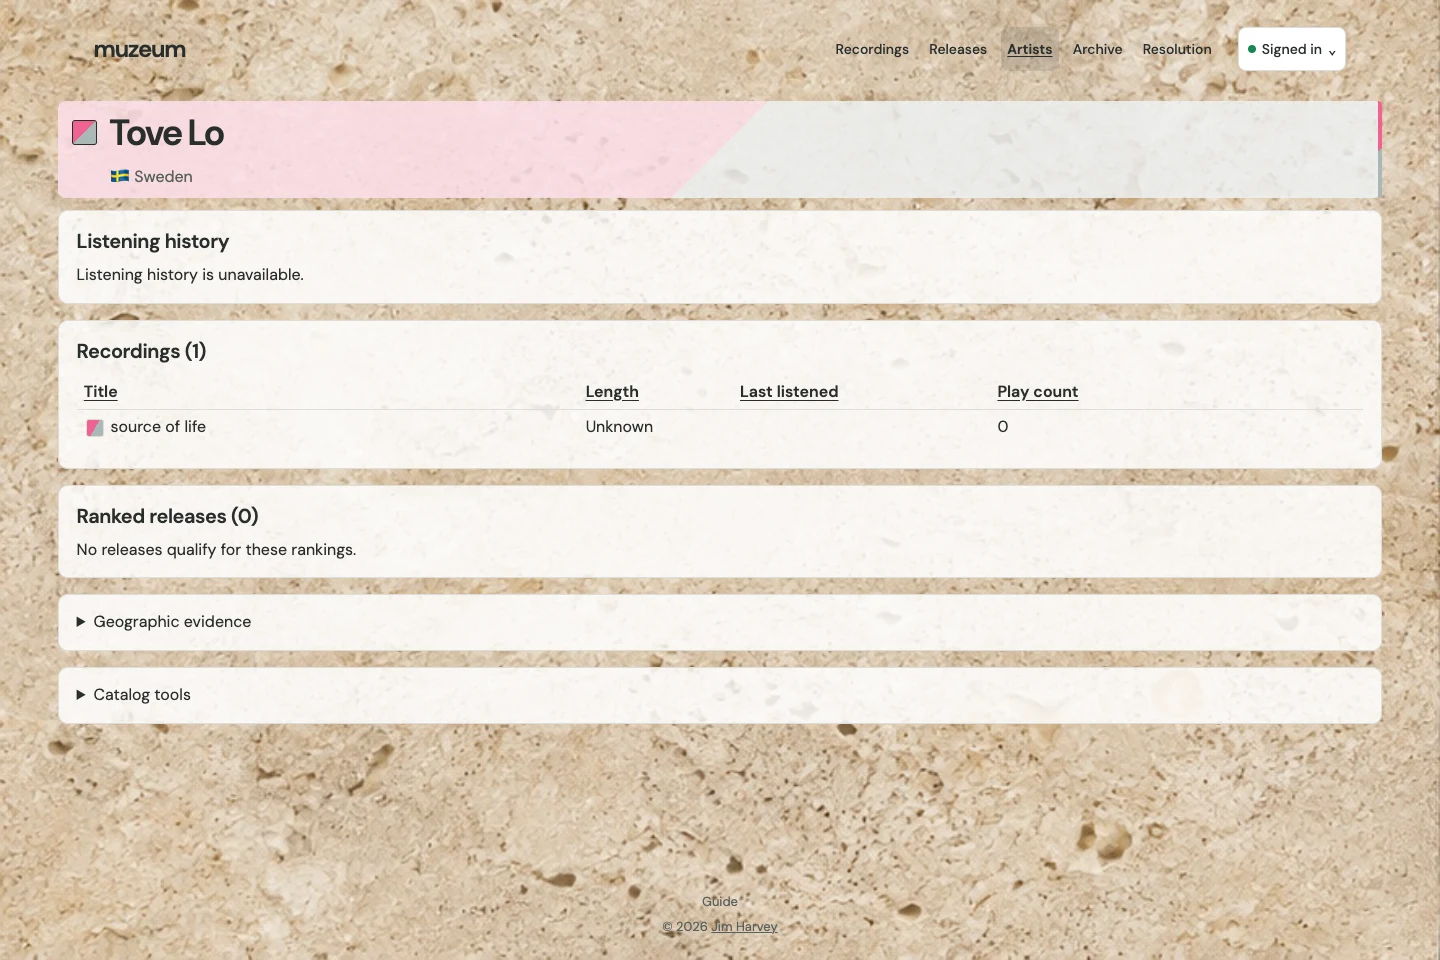
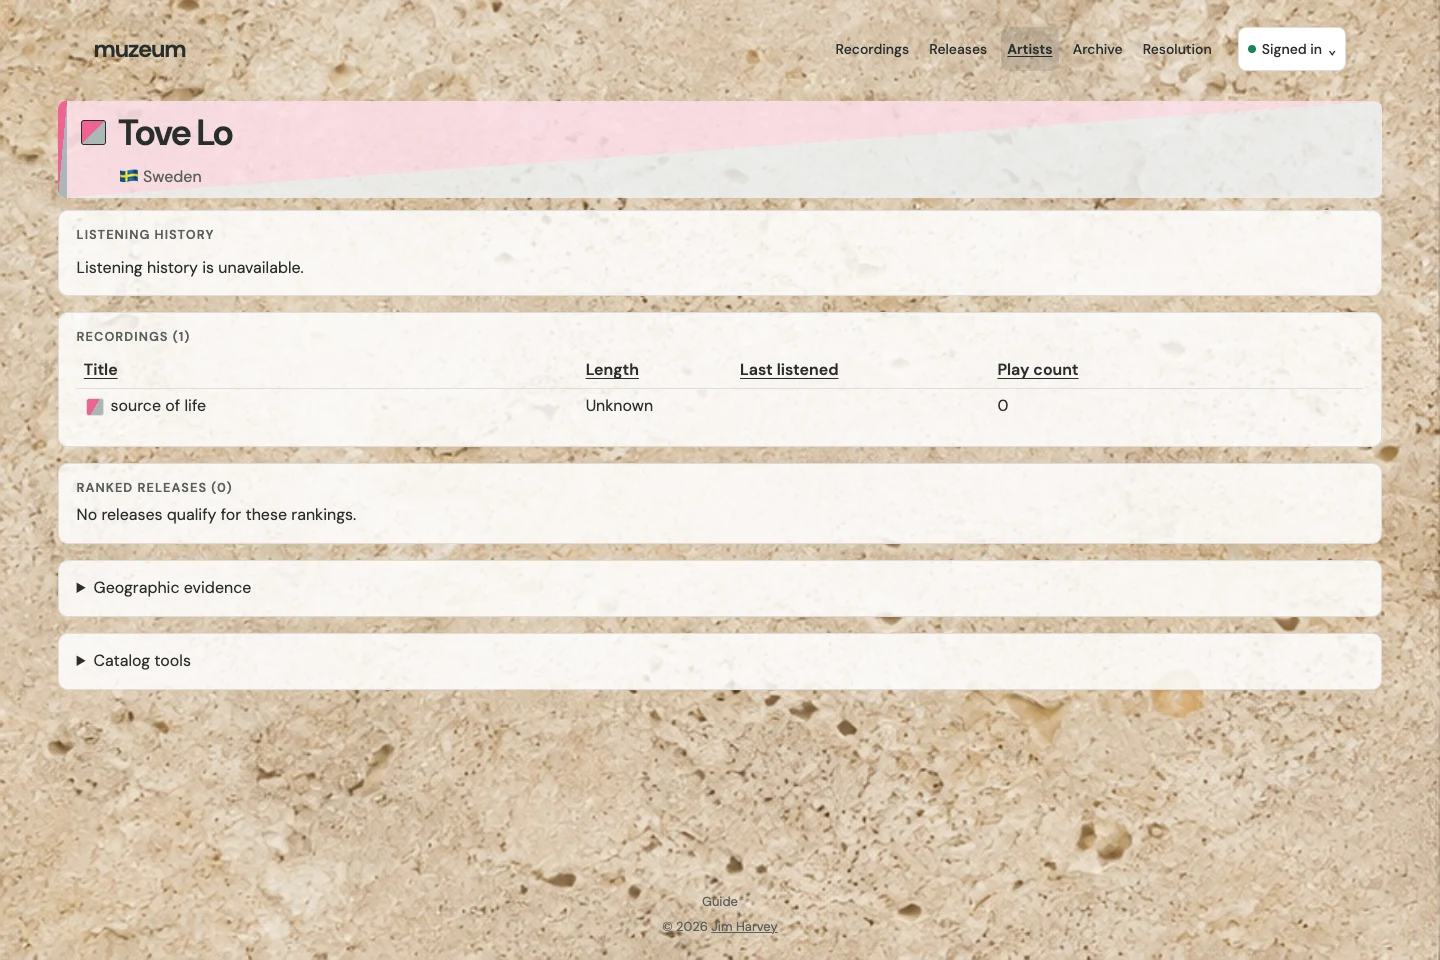
Finish entity accents and resolution typography

Changed region(s): [[0.0312, 0.2188, 0.9688, 0.7812], [0.0312, 0.0938, 0.1562, 0.2188], [0.9375, 0.125, 0.9688, 0.1562]]

diff --git a/app/assets/stylesheets/application.css b/app/assets/stylesheets/application.css
@@ -233,6 +233,7 @@ body:has(.library-nav) main { margin-top: 14px; }
   background-color: var(--reading-surface, var(--surface));
   background-image: var(--heading-tint, none);
   padding: .6rem .9rem;
+  padding-inline-start: 1.45rem;
   font-size: clamp(1.75rem, 4vw, 2.25rem);
 }
 .catalog-heading[data-identity-first] {
@@ -242,22 +243,22 @@ body:has(.library-nav) main { margin-top: 14px; }
 }
 .catalog-heading[data-identity-second] {
   --heading-second: color-mix(in srgb, var(--identity-second) 18%, transparent);
-  --heading-paint: linear-gradient(135deg, var(--identity-first) 50%, var(--identity-second) 50%);
-  --heading-tint: linear-gradient(135deg, var(--heading-first) 50%, var(--heading-second) 50%);
+  --heading-paint: linear-gradient(to bottom right, var(--identity-first) 50%, var(--identity-second) 50%);
+  --heading-tint: linear-gradient(to bottom right, var(--heading-first) 50%, var(--heading-second) 50%);
 }
 .catalog-heading[data-identity-third] {
   --heading-third: color-mix(in srgb, var(--identity-third) 18%, transparent);
-  --heading-paint: linear-gradient(135deg, var(--identity-first) 33%, var(--identity-second) 33% 67%, var(--identity-third) 67%);
-  --heading-tint: linear-gradient(135deg, var(--heading-first) 33%, var(--heading-second) 33% 67%, var(--heading-third) 67%);
+  --heading-paint: linear-gradient(to bottom right, var(--identity-first) 33%, var(--identity-second) 33% 67%, var(--identity-third) 67%);
+  --heading-tint: linear-gradient(to bottom right, var(--heading-first) 33%, var(--heading-second) 33% 67%, var(--heading-third) 67%);
 }
 .catalog-heading::after {
   content: "";
   position: absolute;
   inset-block: 0;
-  inset-inline-end: 0;
-  inline-size: .3rem;
-  border-start-end-radius: inherit;
-  border-end-end-radius: inherit;
+  inset-inline-start: 0;
+  inline-size: .6rem;
+  border-start-start-radius: inherit;
+  border-end-start-radius: inherit;
   background: var(--heading-paint, var(--surface-accent));
   pointer-events: none;
 }
@@ -268,7 +269,7 @@ body:has(.library-nav) main { margin-top: 14px; }
   block-size: 1cap;
   border-color: currentColor;
   background: var(--heading-paint,
-    linear-gradient(135deg, transparent calc(50% - .5px), var(--muted) 50%, transparent calc(50% + .5px))) var(--surface-accent);
+    linear-gradient(to bottom right, transparent calc(50% - .5px), var(--muted) 50%, transparent calc(50% + .5px))) var(--surface-accent);
 }
 .catalog-heading > p { padding-inline-start: calc(1cap + .35em); line-height: 1.45rem; }
 .catalog-heading p > .catalog-credit { font-size: 1rem; }
@@ -753,4 +754,23 @@ html { scroll-padding-block-start: calc(var(--shell-header-height, 84px) + env(s
 }
 @supports not (mask-image: linear-gradient(transparent, black)) {
   body > header { background: var(--card); }
+}
+
+
+h2.section-heading {
+  margin-block: 0 .4rem;
+  color: var(--muted);
+  font-family: inherit;
+  font-size: .8rem;
+  font-weight: 700;
+  letter-spacing: .08em;
+  line-height: 1.35;
+  text-transform: uppercase;
+}
+h3.resolution-release-title {
+  margin: 0;
+  font-family: inherit;
+  font-size: clamp(1.5rem, 3vw, 1.9rem);
+  line-height: 1.2;
+  overflow-wrap: anywhere;
 }

diff --git a/spec/system/canonical_library_spec.rb b/spec/system/canonical_library_spec.rb
@@ -51,7 +51,7 @@ RSpec.describe "Canonical library resolution workflow", type: :system do
               document.documentElement.scrollWidth <= innerWidth]
           })()
         JS
-        expect(geometry[0]).to include("linear-gradient(135deg")
+        expect(geometry[0]).to match(/linear-gradient\(to (?:right bottom|bottom right)/)
         expect(geometry[1]).to be > 14
         expect(geometry[1]).to eq(geometry[2])
         expect(geometry[3]).to be(true)
@@ -59,14 +59,19 @@ RSpec.describe "Canonical library resolution workflow", type: :system do
         decision = MusicalIdentityDecision.create!(entity: artist, user:, colors: %w[pink gray])
         visit path
         expect(page).to have_css('.catalog-heading[data-identity-first="pink"][data-identity-second="gray"]')
-        expect(page.evaluate_script(<<~JS)).to all(include("linear-gradient(135deg", "50%"))
+        gradients, offset, width_px, radius = page.evaluate_script(<<~JS)
           (() => {
             const heading = document.querySelector(".catalog-heading")
-            return [getComputedStyle(heading).backgroundImage,
-              getComputedStyle(heading, "::after").backgroundImage,
-              getComputedStyle(heading.querySelector(".identity-swatch")).backgroundImage]
+            const accent = getComputedStyle(heading, "::after")
+            return [[getComputedStyle(heading).backgroundImage, accent.backgroundImage,
+              getComputedStyle(heading.querySelector(".identity-swatch")).backgroundImage],
+              accent.left, parseFloat(accent.width), accent.borderTopLeftRadius]
           })()
         JS
+        expect(gradients).to all(match(/linear-gradient\(to (?:right bottom|bottom right).*50%.*50%/))
+        expect(offset).to eq("0px")
+        expect(width_px).to be_within(0.1).of(9.6)
+        expect(radius).to eq("8px")
         capture_resolution("colored-heading-#{entity}-#{width}-#{theme}")
         decision.destroy!
       end
@@ -211,6 +216,14 @@ RSpec.describe "Canonical library resolution workflow", type: :system do
       expect(page).to have_css(".resolution-choice[aria-current]", text: "Charli · 2019 · Track 1")
       within(".resolution-context") do
         expect(page).to have_text("September 13, 2019")
+        expect(page.evaluate_script(<<~JS)).to be(true)
+          (() => {
+            const section = document.querySelector(".resolution-context")
+            const heading = getComputedStyle(section.querySelector("h2"))
+            const title = getComputedStyle(section.querySelector("h3"))
+            return heading.textTransform === "uppercase" && parseFloat(title.fontSize) > parseFloat(heading.fontSize)
+          })()
+        JS
         expect(page).to have_no_text(/Disc|Vinyl|Complete tracklist|MusicBrainz release/)
         expect(page).to have_no_css("details")
         expect(all(".review-tracks li > span:first-child").map(&:text)).to eq((1..15).map(&:to_s))

diff --git a/docs/design/v0.6.7/README.md b/docs/design/v0.6.7/README.md
@@ -1,8 +1,8 @@
 # Muzeum v0.6.7 design review
 
-Artist, Recording, and Release headings use compact cards with a tint and right-edge accent drawn from the effective musical colors. Two-color palettes split on a sharp diagonal. Neutral badges use a subtle slash, and supporting dates, credits, and country labels sit closer to the title.
+Artist, Recording, and Release headings use compact cards with a tint and a wider left-edge accent drawn from the effective musical colors. Two-color cards, accents, and badges split sharply from bottom left to top right. Neutral badges use a subtle slash, and supporting dates, credits, and country labels sit closer to the title.
 
-Recording Resolution shows the full original tracklist inline. Numbers run from 1 through 15 for *Charli*, across both media. The preview groups planned changes by entity type, with source details available in Evidence.
+Muted uppercase labels distinguish sections from content titles. In Recording Resolution, the original release title takes precedence, with the date and full tracklist directly below. Numbers run from 1 through 15 for *Charli*, across both media. The preview groups planned changes by entity type, with source details available in Evidence.
 
 Chrome captures use local fixtures with 1440 × 960 desktop and 390 × 844 mobile viewports. Resolution captures cover the full page. The comparison is against the staged v0.6.6 design. The assigned Artist and Release examples show the color treatment, while the Recording examples compare the neutral badges.
 
